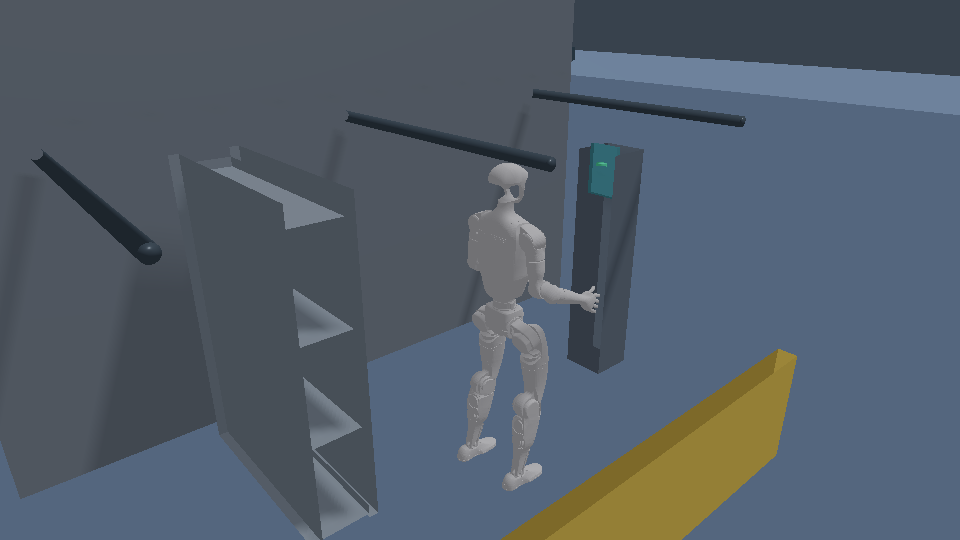
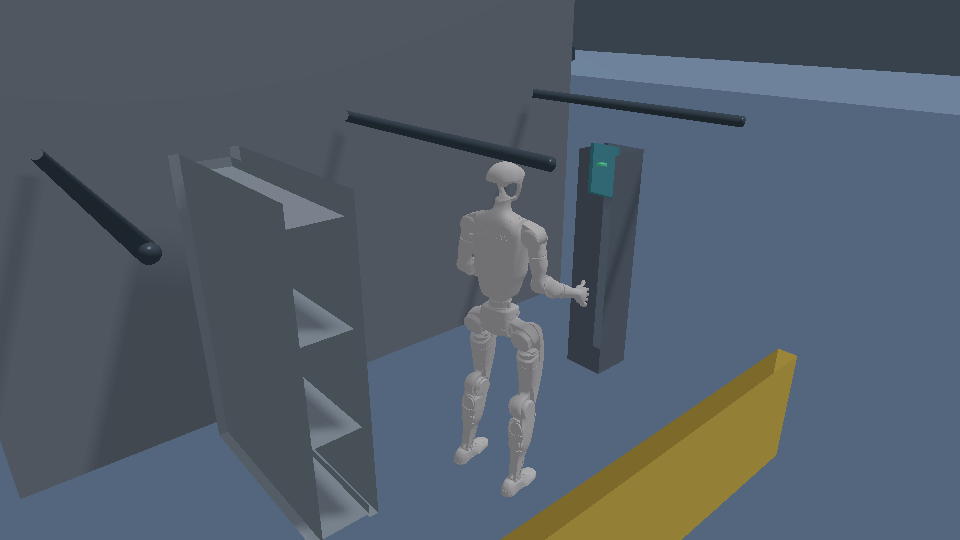
fix(showcase): complete factory inspection capture

diff --git a/examples/90_showcase_captures/factory.rs b/examples/90_showcase_captures/factory.rs
@@ -19,7 +19,9 @@ use std::path::Path;
 
 const ENVIRONMENT_ID: &str = "factory";
 const SUBJECT: &str = "Unitree G1 inspection route";
-const CAPTURE_STEPS: u64 = 40;
+const CAPTURE_STEPS: u64 = 270;
+const CAPTURE_FRAME_COUNT: usize = 54;
+const CAPTURE_STRIDE: u64 = CAPTURE_STEPS / CAPTURE_FRAME_COUNT as u64;
 const CAMERA: CameraEvidence = CameraEvidence {
     fov_y_rad: std::f64::consts::FRAC_PI_4,
     yaw_rad: -0.72,
@@ -27,8 +29,9 @@ const CAMERA: CameraEvidence = CameraEvidence {
     distance_m: 2.75,
 };
 
-/// Run the real UnitreeG1InspectionEpisode for the requested forty fixed
-/// steps, then optionally render those exact post-step states with wgpu.
+/// Run the real UnitreeG1InspectionEpisode for the complete three-marker route
+/// (270 fixed steps), then optionally render evenly sampled post-step states
+/// with wgpu.
 pub fn run(repo_root: &Path, capture: bool) -> Result<ShowcaseMetadata> {
     let first = rollout(capture)?;
     let replay = rollout(false)?;
@@ -40,18 +43,32 @@ pub fn run(repo_root: &Path, capture: bool) -> Result<ShowcaseMetadata> {
     );
     anyhow::ensure!(
         first.steps == CAPTURE_STEPS,
-        "factory source must run exactly 40 steps"
+        "factory source must run exactly {CAPTURE_STEPS} steps"
     );
+    anyhow::ensure!(
+        first.terminated && !first.truncated,
+        "factory source must terminate successfully without truncation"
+    );
+    anyhow::ensure!(
+        first.completed_markers == 3 && first.marker_count == 3,
+        "factory source must complete 3/3 inspection markers"
+    );
+    if capture {
+        anyhow::ensure!(
+            first.frames.len() == CAPTURE_FRAME_COUNT,
+            "factory capture must contain exactly {CAPTURE_FRAME_COUNT} sampled frames"
+        );
+    }
     let evidence = SimulationEvidence {
-        scenario: "UnitreeG1InspectionEpisode (40 fixed steps)",
+        scenario: "UnitreeG1InspectionEpisode (270 fixed steps; 3 markers)",
         steps: first.steps,
         initial_state_digest: first.initial_digest,
         final_state_digest: first.final_digest,
         replay_final_state_digest: replay.final_digest,
         replay_match: true,
         outcome: format!(
-            "inspection_progress={:.3}; marker={}/{}; official_g1_meshes={}",
-            first.gesture_progress, first.completed_markers, first.marker_count, first.mesh_items
+            "terminated={}; completed_markers={}/{}; official_g1_meshes={}",
+            first.terminated, first.completed_markers, first.marker_count, first.mesh_items
         ),
     };
     let capture_evidence = if capture {
@@ -101,10 +118,11 @@ struct Rollout {
     steps: u64,
     initial_digest: u64,
     final_digest: u64,
-    gesture_progress: f64,
     completed_markers: usize,
     marker_count: usize,
     mesh_items: usize,
+    terminated: bool,
+    truncated: bool,
     frames: Vec<CaptureFrame>,
 }
 
@@ -115,23 +133,33 @@ fn rollout(capture: bool) -> Result<Rollout> {
     let mut frames = Vec::new();
     let mut mesh_cache = MeshRenderCache::new();
     let mut mesh_items = 0;
+    let mut terminal_step = None;
     for step_index in 1..=CAPTURE_STEPS {
         let step = episode.step(UnitreeG1InspectionAction { advance: true });
-        if capture {
+        if capture && (step_index % CAPTURE_STRIDE == 0 || step.terminated || step.truncated) {
             let (scene, current_mesh_items) = render_scene(&episode, &mut mesh_cache)?;
             mesh_items = mesh_items.max(current_mesh_items);
             frames.push(CaptureFrame {
                 step: step_index,
-                phase: if step.observation.gesture_progress > 0.01 {
-                    "point-and-confirm".into()
-                } else {
-                    "factory-approach".into()
-                },
+                phase: capture_phase(step_index, step.observation, step.terminated),
                 scene,
             });
         }
+        if step.terminated || step.truncated {
+            terminal_step = Some(step);
+            break;
+        }
     }
-    let final_observation = episode.current_observation();
+    let terminal_step = terminal_step.context("factory episode did not reach a terminal step")?;
+    let final_observation = terminal_step.observation;
+    anyhow::ensure!(
+        terminal_step.terminated && !terminal_step.truncated,
+        "factory terminal EpisodeStep must be terminated=true and truncated=false"
+    );
+    anyhow::ensure!(
+        final_observation.completed_markers == 3 && final_observation.marker_count == 3,
+        "factory terminal observation must report completed_markers=3 and marker_count=3"
+    );
     if !capture {
         let (_, current_mesh_items) = render_scene(&episode, &mut mesh_cache)?;
         mesh_items = current_mesh_items;
@@ -144,12 +172,32 @@ fn rollout(capture: bool) -> Result<Rollout> {
         steps: episode.step_in_episode(),
         initial_digest,
         final_digest: hash_physics_state(episode.simulation().world()),
-        gesture_progress: final_observation.gesture_progress,
         completed_markers: final_observation.completed_markers,
         marker_count: final_observation.marker_count,
         mesh_items,
+        terminated: terminal_step.terminated,
+        truncated: terminal_step.truncated,
         frames,
     })
+}
+
+fn capture_phase(
+    step_index: u64,
+    observation: rne_ai::UnitreeG1InspectionObservation,
+    terminated: bool,
+) -> String {
+    let marker_count = observation.marker_count.max(1) as u64;
+    let marker_span = (CAPTURE_STEPS / marker_count).max(1);
+    let marker_number = ((step_index.saturating_sub(1) / marker_span) + 1).min(marker_count);
+    let step_in_marker = ((step_index.saturating_sub(1) % marker_span) + 1).min(marker_span);
+    let phase = if terminated || step_in_marker == marker_span {
+        "complete"
+    } else if observation.gesture_progress > 0.01 {
+        "inspect"
+    } else {
+        "approach"
+    };
+    format!("marker-{marker_number}-{phase}")
 }
 
 fn render_scene(
